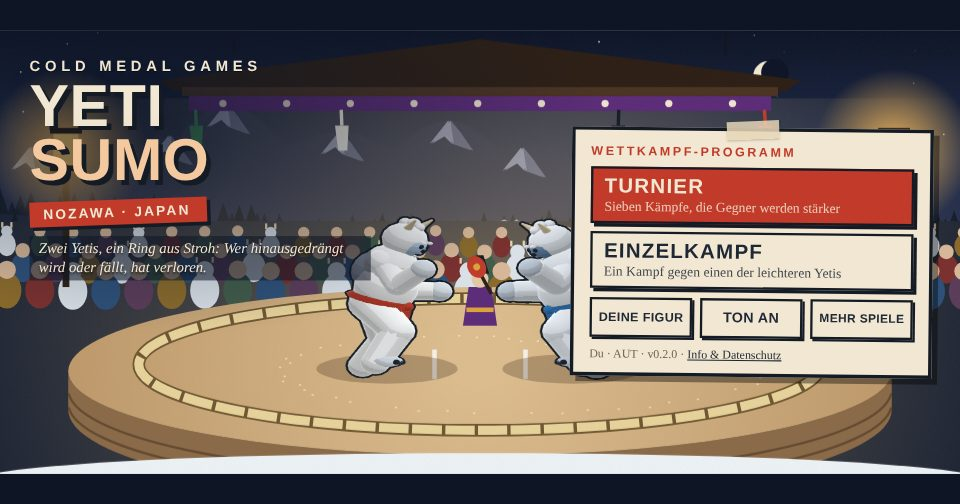
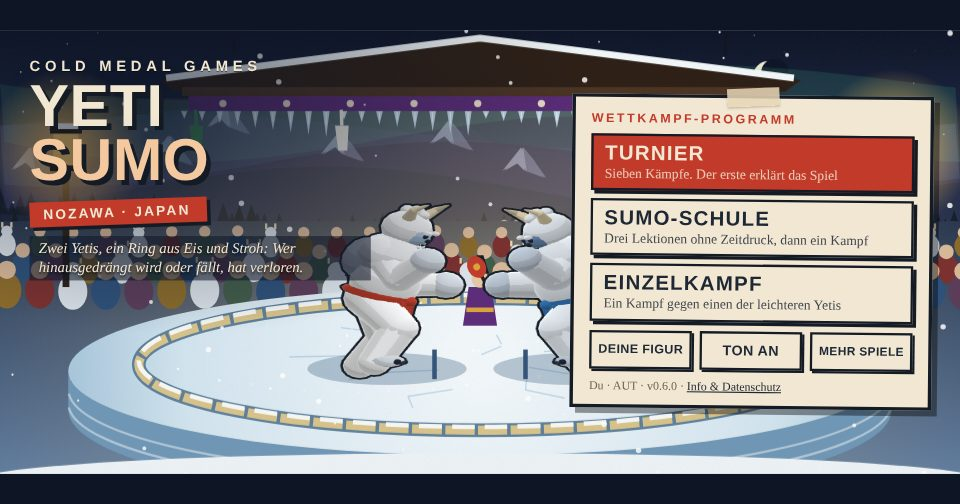
Yeti-Sumo 0.6.0
Claude-Session: https://claude.ai/code/session_014DHnXigyAZUFRqF2g2CL9Y

diff --git a/sumo/index.html b/sumo/index.html
@@ -2414,15 +2414,15 @@ tr.cut td { border-bottom: 2px dashed var(--red); }
         // Leib: Bauch und Brust aus zwei Ballen, Rückenfell, Gürtel mit Knoten und Fransen
         const mid = (t) => lerp(sk.hip, sk.nk, t);
         E(at(mid(0.36), fr, 2.6, up, 0, zs, 0), fr, up, zs, 12.4 * k, 13.2, 12.8 * k, fur);
-        E(at(mid(0.8), fr, 0.8, up, 0, zs, 0), fr, up, zs, 10.4 * k, 10.2, 12.2 * k, fur);
-        E(at(mid(0.62), fr, -7.5 * k, up, 0, zs, 0), fr, up, zs, 5.2, 8.5, 9.5 * k, fur2);
+        E(at(mid(0.8), fr, 1.2, up, 0, zs, 0), fr, up, zs, 11.8 * k, 10.8, 14.6 * k, fur);
+        E(at(mid(0.66), fr, -8.2 * k, up, 0, zs, 0), fr, up, zs, 6.4, 9.6, 11.5 * k, fur2);
         E(at(mid(0.1), fr, 1.8, up, 0, zs, 0), fr, up, zs, 12.9 * k, 3.3, 13.3 * k, belt);
         ball(at(mid(0.1), fr, 13.6 * k, up, 0, zs, 0), 2.5, belt);
         for (const sd of [-2, -1, 0, 1, 2]) cap(at(mid(0.07), fr, 13.2 * k, up, 0, zs, sd * 2.2), at(mid(0.07), fr, 13.6 * k, up, -7.5, zs, sd * 2.4), 0.75, belt);
         // Arme: runde Schulter, dicke Arme, Pranken
         for (const A2 of [sk.AF, sk.AB]) {
-          ball(A2[0], 6.6 * k, fur); limb(A2[0], A2[1], 5.8 * k, 5.0 * k, fur); limb(A2[1], A2[2], 5.0 * k, 4.5 * k, fur);
-          const d = norm(sub(A2[2], A2[1])); ball([A2[2][0] + d[0] * 2.6, A2[2][1] + d[1] * 2.6, A2[2][2] + d[2] * 2.6], 4.9, fur2);
+          ball(A2[0], 8.4 * k, fur); limb(A2[0], A2[1], 7.0 * k, 5.9 * k, fur); limb(A2[1], A2[2], 5.9 * k, 5.2 * k, fur);
+          const d = norm(sub(A2[2], A2[1])); ball([A2[2][0] + d[0] * 2.6, A2[2][1] + d[1] * 2.6, A2[2][2] + d[2] * 2.6], 6.0, fur2);
         }
         // Kopf: groß, Gesicht als hellblaue Maske, Augen, Nase, Maul mit zwei Zähnen, Hörner, Schopf
         const hu = norm(sub(sk.head, sk.nk)), hf = norm(cross(hu, zs)), hc = at(sk.head, hf, 0.5, hu, 1.4, zs, 0);
@@ -2430,9 +2430,9 @@ tr.cut td { border-bottom: 2px dashed var(--red); }
         E(at(hc, hf, 4.9, hu, -0.8, zs, 0), hf, hu, zs, 4.6, 5.6, 6.4, face);
         for (const sd of [-1, 1]) {
           E(at(hc, hf, 8.9, hu, 1.0, zs, sd * 2.7), hf, hu, zs, 0.9, o.auge === "zu" ? 0.35 : 1.15, 1.15, dark, true);
-          E(at(hc, hf, 8.6, hu, o.auge === "zu" ? 2.6 : 3.1, zs, sd * 2.9), hf, hu, zs, 1.0, 0.75, 2.3, fur, true);
-          limb(at(hc, hf, 0, hu, 6.2, zs, sd * 4.6), at(hc, hf, 1.6, hu, 12.2, zs, sd * 7.4), 1.8, 0.5, horn);
-          E(at(hc, hf, 8.6, hu, -4.4, zs, sd * 1.5), hf, hu, zs, 0.6, 1.0, 0.6, hex("#FFFFFF"), true);
+          E(at(hc, hf, 8.9, hu, o.auge === "zu" ? 2.5 : 2.7 - (sd * 0), zs, sd * 2.9), hf, hu, zs, 1.3, 1.0, 2.9, fur, true);
+          limb(at(hc, hf, 0, hu, 5.6, zs, sd * 5.0), at(hc, hf, 1.2, hu, 10.6, zs, sd * 9.2), 2.5, 1.5, horn); limb(at(hc, hf, 1.2, hu, 10.6, zs, sd * 9.2), at(hc, hf, 4.2, hu, 15.2, zs, sd * 8.2), 1.5, 0.3, horn);
+          E(at(hc, hf, 8.8, hu, -4.7, zs, sd * 1.7), hf, hu, zs, 0.7, 1.6, 0.75, hex("#FFFFFF"), true);
         }
         E(at(hc, hf, 9.6, hu, -1.0, zs, 0), hf, hu, zs, 1.2, 1.0, 1.5, dark, true);
         E(at(hc, hf, 8.7, hu, -3.6, zs, 0), hf, hu, zs, 0.8, o.mund === "auf" ? 1.9 : 0.55, 2.7, dark, true);
@@ -2652,7 +2652,7 @@ tr.cut td { border-bottom: 2px dashed var(--red); }
   function tu(s, f, art, opt) {
     if (s.phase !== "kampf" || f.akt || f.pause > 0.12) return false;
     if (f.griff) { if (art === "griff") art = "heben"; else if (art === "weich") art = "wurf"; } else if (art === "wurf" || art === "heben") art = "griff";
-    f.akt = { art, t: 0, fertig: false, lade: 0, haelt: art === "schub" && !!(opt && (opt.halten || opt.lade)), ladeZiel: opt && opt.lade ? opt.lade : null, timed: !!(opt && opt.timed) }; return true;
+    f.akt = { art, t: 0, fertig: false, lade: 0, haelt: art === "schub" && !!(opt && (opt.halten || opt.lade)), ladeZiel: opt && opt.lade ? opt.lade : null, timed: !!(opt && opt.timed), stur: !!(opt && opt.stur) }; return true;
   }
   function lass(s, f) { if (f.akt) f.akt.haelt = false; }
   // Volltreffer (wie die Zeitschläge in Rollenspielen): im Augenblick des Aufpralls tippen. Trifft das Fenster des eigenen Zugs, wirkt er stärker;
@@ -2666,16 +2666,16 @@ tr.cut td { border-bottom: 2px dashed var(--red); }
     if (kraftakt) { f.schwung = 0; melde(s, "kraftakt", f); } if (T) melde(s, "volltreffer", f);
     const weicht = oa && oa.art === "weich" && oa.t >= K.vor && oa.t < K.vor + K.aktiv;
     if (A === "schub") {
-      if (weicht && !f.griff) { sieg1(s, o); if (o.stemmt > 0) { f.bal -= 0.12; melde(s, "perfekt", o); } f.bal -= 0.5 + 0.45 * L; s.m += dir * (0.26 + 0.5 * L); melde(s, "leere", f, L > 0.4 ? "voll" : ""); if (f.bal <= 0.14) return ende(s, o, "Hatakikomi", "boden"); }
+      if (weicht && !f.griff) { sieg1(s, o); if (o.stemmt > 0) { f.bal -= 0.12; melde(s, "perfekt", o); } f.bal -= 0.5 + 0.45 * L + (f.akt.stur ? 0.25 : 0); s.m -= dir * (0.34 + 0.3 * L); melde(s, "leere", f, L > 0.4 ? "voll" : ""); if (f.bal <= 0.14) return ende(s, o, "Hatakikomi", "boden"); }
       else if (oa && oa.art === "griff" && !oa.fertig) { sieg1(s, f); o.akt = null; o.pause = 0.35; o.bal -= 0.12; s.m += dir * 0.78 * wucht * Math.sqrt(f.kraft / o.masse); melde(s, "gesprengt", f); }
-      else if (oa && oa.art === "schub" && Math.abs(oa.t - K.vor) < 0.1) { const z = f.kraft * f.masse * (0.6 + 0.4 * f.bal) * wucht - o.kraft * o.masse * (0.6 + 0.4 * o.bal) * (1 + 0.9 * clamp(oa.lade / LADEN, 0, 1)); s.m += dir * clamp(z, -1, 1) * 0.3; f.bal -= 0.04; o.bal -= 0.04; oa.fertig = true; melde(s, "prall", f); }
+      else if (oa && oa.art === "schub" && Math.abs(oa.t - K.vor) < 0.1) { const z = f.kraft * f.masse * (0.6 + 0.4 * f.bal) * wucht - o.kraft * o.masse * (0.6 + 0.4 * o.bal) * (1 + 0.9 * clamp(oa.lade / LADEN, 0, 1)); s.m += dir * clamp(z * 1.6, -1, 1) * 0.3 * (1 + s.tPh / 14); f.bal -= 0.08; o.bal -= 0.08; if (f.bal <= 0 || o.bal <= 0) return ende(s, z >= 0 ? f : o, "Oshitaoshi", "boden"); oa.fertig = true; melde(s, "prall", f); }
       else { const haelt = o.griff && !f.griff && fest(o) >= 0.5 && L < 0.45 && !kraftakt, gest = (o.stemmt > 0 || (o.stemmQuote && s.r() < o.stemmQuote)) ? 0.6 : 1; if (gest < 1) melde(s, "gestemmt", o);   // ein fester Griff hält einem einfachen Stoß stand, nur ein geladener sprengt ihn
-        s.m += dir * (f.griff ? 0.74 : 0.54) * wucht * gest * (haelt ? 0.5 : 1) * Math.sqrt(f.kraft / o.masse) * (1.5 - 0.5 * clamp(o.bal, 0, 1)) * (1 + s.tPh / 14) /* müde Beine */; o.bal -= (f.griff ? 0.05 : 0.1) * wucht * gest;
+        s.m += dir * (f.griff ? 0.74 : 0.44) * wucht * gest * (haelt ? 0.5 : 1) * Math.sqrt(f.kraft / o.masse) * (1.5 - 0.5 * clamp(o.bal, 0, 1)) * (1 + s.tPh / 14) /* müde Beine */; o.bal -= (f.griff ? 0.05 : 0.1) * wucht * gest;
         if (haelt) { o.griffT -= 1.1; melde(s, "haelt", f); } else if (o.griff && !f.griff) { o.griff = false; o.griffT = 0; melde(s, "geloest", f); } else melde(s, f.griff ? "draengen" : "schub", f, L > 0.4 ? "voll" : ""); }
       if (o.bal <= 0) return ende(s, f, f.griff ? "Yoritaoshi" : "Oshitaoshi", "boden");
     } else if (A === "griff") {
       if (weicht) { sieg1(s, f); f.griff = true; f.griffT = T ? 1.6 : 1.2; o.griff = false; o.bal -= 0.2; o.akt = null; o.pause = 0.3; melde(s, "gefangen", f); }
-      else { f.griff = true; f.griffT = T ? 1.0 : 0; melde(s, "griff", f); }
+      else { f.griff = true; f.griffT = T ? 1.0 : 0; if (!(oa && oa.art === "griff")) { s.m += dir * 0.22 * Math.sqrt(f.kraft / o.masse); o.bal -= 0.08; } melde(s, "griff", f); }
     } else if (A === "wurf") {
       const amRand = zumRand(s, o) < 0.55, ichAmRand = zumRand(s, f) < 0.55, imSchub = oa && oa.art === "schub" && !oa.fertig && oa.t > K.vor - 0.16;
       if (o.bal < (T || kraftakt ? 0.7 : 0.55) || amRand || imSchub) { o.bal = 0; return ende(s, f, ichAmRand ? "Utchari" : imSchub ? "Sukuinage" : "Uwatenage", "boden"); }
@@ -2699,7 +2699,7 @@ tr.cut td { border-bottom: 2px dashed var(--red); }
     if (s.phase === "bereit") { if (s.tPh >= s.signal && ((s.A.start != null && s.B.start != null) || s.tPh > s.signal + 0.7)) aufprall(s); return s.ev; }
     if (s.phase !== "kampf") return s.ev;
     for (const f of [s.A, s.B]) {
-      f.bal = Math.min(1, f.bal + 0.07 * dt); if (f.pause > 0) f.pause -= dt; if (f.stemmt > 0) f.stemmt -= dt; if (f.griff) f.griffT = Math.min(GRIFF_FEST, f.griffT + dt); else f.griffT = 0;
+      f.bal = Math.min(1, f.bal + 0.04 * dt); if (f.pause > 0) f.pause -= dt; if (f.stemmt > 0) f.stemmt -= dt; if (f.griff) f.griffT = Math.min(GRIFF_FEST, f.griffT + dt); else f.griffT = 0;
       const a = f.akt; if (!a) continue; const K = AKT[a.art];
       if (a.haelt && !a.fertig && a.t >= K.vor - 0.03) { a.lade += dt; if (a.lade >= LADEN || (a.ladeZiel != null && a.lade >= a.ladeZiel)) a.haelt = false; } else a.t += dt;
       if (!a.fertig && a.t >= K.vor && a.art !== "weich") { a.fertig = true; wirke(s, f); if (s.phase !== "kampf") return s.ev; }
@@ -2728,7 +2728,7 @@ tr.cut td { border-bottom: 2px dashed var(--red); }
   // Für den Kampf in Runden (seit 0.3): Der Rechner legt seinen Zug vor dem Gong fest (waehle) und liest mit Können manchmal den Zug des anderen (kontra).
   // verlauf: die letzten Züge des anderen (jüngster zuerst). Wer zweimal dasselbe macht, wird durchschaut.
   function waehle(s, f, verlauf) {
-    if (verlauf && verlauf.length >= 2 && verlauf[0] === verlauf[1] && s.r() < 0.45 + 0.4 * f.st) return [kontra(s, f, verlauf[0]), null, true];
+    if (verlauf && verlauf.length >= 2 && verlauf[0] === verlauf[1] && s.r() < 0.4 + 0.58 * f.st) return [kontra(s, f, verlauf[0]), null, true];
     const o = andere(s, f), r = s.r, w = Object.assign({ wurf: 0, heben: 0 }, TYPEN[f.typ] || TYPEN.schieber);
     if (f.griff) { w.schub = 5; w.griff = 0; w.wurf = o.bal < 0.55 || zumRand(s, o) < 0.55 ? 5 : 0.6; w.weich = 0; w.heben = fest(f) >= 0.55 && o.bal < 0.8 ? 2.4 : 0; }
     if (o.griff) { w.schub *= 2.2; w.weich *= 0.15; }
@@ -2751,17 +2751,17 @@ tr.cut td { border-bottom: 2px dashed var(--red); }
 // Ablauf wie im Sumo: Einzug, Stampfen (Shiko), Salz, Hocke, Fäuste auf den Boden, Aufprall (Tachiai), Kampf, Siegtechnik (Kimarite).
 (function () {
   "use strict";
-  const VERSION = "0.5.0";
+  const VERSION = "0.6.0";
   const P = window.SUPhys, F = window.CMFigur, F3 = window.Figur3D;
-  const CX = 422, CY = 294, RX = 300, RY = 58, PXM = RX / P.RING, SC = 1.95;
+  const CX = 422, CY = 294, RX = 300, RY = 58, PXM = RX / P.RING, SC = 2.12;
   const YETIS = [
     { name: "Firn", typ: "schieber", st: 0.18, kraft: 0.92, masse: 0.92, fur: "#F4F6F8", fur2: "#D6DEE6", face: "#7C9CC0", belt: "#3F6B55", dick: 0.94 },
     { name: "Wächte", typ: "trickser", st: 0.3, kraft: 0.94, masse: 0.9, fur: "#EDE7DA", fur2: "#CFC6B2", face: "#8A7A66", belt: "#DDA43B", dick: 0.9 },
-    { name: "Lawine", typ: "schieber", st: 0.42, kraft: 1.06, masse: 1.1, fur: "#E3EAF2", fur2: "#BFCCDB", face: "#5F7FA6", belt: "#2C6FB3", dick: 1.12 },
-    { name: "Gletscher", typ: "greifer", st: 0.54, kraft: 1.04, masse: 1.12, fur: "#D9EEF2", fur2: "#A9D0D8", face: "#3F7F8C", belt: "#1F3A7A", dick: 1.1 },
-    { name: "Nordwand", typ: "greifer", st: 0.66, kraft: 1.1, masse: 1.06, fur: "#CFCFD6", fur2: "#A3A3AF", face: "#4A4F63", belt: "#141B25", dick: 1.04 },
+    { name: "Lawine", typ: "schieber", st: 0.42, kraft: 1.04, masse: 1.06, fur: "#E3EAF2", fur2: "#BFCCDB", face: "#5F7FA6", belt: "#2C6FB3", dick: 1.12 },
+    { name: "Gletscher", typ: "greifer", st: 0.54, kraft: 1.04, masse: 1.08, fur: "#D9EEF2", fur2: "#A9D0D8", face: "#3F7F8C", belt: "#1F3A7A", dick: 1.1 },
+    { name: "Nordwand", typ: "greifer", st: 0.66, kraft: 1.08, masse: 1.06, fur: "#CFCFD6", fur2: "#A3A3AF", face: "#4A4F63", belt: "#141B25", dick: 1.04 },
     { name: "Eisbruch", typ: "trickser", st: 0.78, kraft: 1.04, masse: 1.0, fur: "#F2E9F0", fur2: "#D3C0CF", face: "#7A5A80", belt: "#7A2E8C", dick: 0.98 },
-    { name: "Schneekönig", typ: "schieber", st: 0.9, kraft: 1.14, masse: 1.18, fur: "#FFFFFF", fur2: "#E0E6EE", face: "#35547A", belt: "#B8860B", dick: 1.18, horn: "#E0B040" },
+    { name: "Schneekönig", typ: "schieber", st: 0.9, kraft: 1.1, masse: 1.1, fur: "#FFFFFF", fur2: "#E0E6EE", face: "#35547A", belt: "#B8860B", dick: 1.18, horn: "#E0B040" },
   ];
   const ICH = { fur: "#F6F8FA", fur2: "#D9E1EA", face: "#A9C1DC", belt: "#C23B2A", dick: 1 };
   // ---- Posen (Grad, + = nach vorn; sL/fL [Hüfte, Knie], aF/aB [Schulter, Ellbogen], sA/fA Beine seitlich, ao Arme seitlich)
@@ -2797,7 +2797,7 @@ tr.cut td { border-bottom: 2px dashed var(--red); }
 
   // ---- ein Yeti im Bild: 3D-Figur als Bild, gespiegelt für den rechten Ringer; ohne WebGL die flache Figur
   function yeti(c, x, y, o) {
-    const S3 = sprite(); c.save(); c.translate(x, y); if (o.dir < 0) c.scale(-1, 1); if (o.kipp) c.rotate(o.kipp); c.scale(1.2, 0.9);   // gedrungen: breiter und kürzer als ein Mensch
+    const S3 = sprite(); c.save(); c.translate(x, y); if (o.dir < 0) c.scale(-1, 1); if (o.kipp) c.rotate(o.kipp); c.scale(1.24, 0.9);   // gedrungen: breiter und kürzer als ein Mensch
     if (S3) { const img = S3.render(Object.assign({ outfit: "yeti", pose: o.pose, turn: o.turn == null ? 0.42 : o.turn, lift: o.lift || 0 }, o.art)), B = F3.SPR, sz = (B.x1 - B.x0) * SC; c.drawImage(img, B.x0 * SC, -B.y1 * SC, sz, sz); }
     else F.draw(c, { x: 0, y: 0, s: SC * 1.1, pose: o.pose, look: { suit: o.art.belt, skin: 0 }, kit: "plain", dir: 1 });
     c.restore();
@@ -2805,28 +2805,37 @@ tr.cut td { border-bottom: 2px dashed var(--red); }
   // ---- die Arena: Bergdorf bei Nacht, Laternen, Zuschauer, hängendes Dach mit vier Quasten, Lehmpodest mit Strohballenring
   function arena(c, t, st) {
     kul = kul || R.kulisse("nozawa", 168, "nacht"); kul.zeichne(c, 0, t);
-    c.fillStyle = "#1A2233"; c.fillRect(0, 168, R.W, R.H - 168);
+    // Nordlicht über den Bergen, verschneite Ebene
+    for (let k = 0; k < 3; k++) { c.beginPath(); for (let x2 = 0; x2 <= R.W; x2 += 24) { const y2 = 46 + k * 22 + Math.sin(x2 / 130 + t * 0.25 + k * 1.7) * 16; x2 ? c.lineTo(x2, y2) : c.moveTo(x2, y2); } for (let x2 = R.W; x2 >= 0; x2 -= 24) c.lineTo(x2, 96 + k * 22 + Math.sin(x2 / 110 + t * 0.2 + k) * 20); c.closePath(); c.fillStyle = ["rgba(90,230,170,0.13)", "rgba(90,190,255,0.11)", "rgba(170,120,255,0.08)"][k]; c.fill(); }
+    const eb = c.createLinearGradient(0, 168, 0, R.H); eb.addColorStop(0, "#22324D"); eb.addColorStop(1, "#5E7CA0"); c.fillStyle = eb; c.fillRect(0, 168, R.W, R.H - 168);
     const gl = c.createRadialGradient(CX, 250, 40, CX, 250, 460); gl.addColorStop(0, "rgba(255,214,150,0.34)"); gl.addColorStop(1, "rgba(255,214,150,0)"); c.fillStyle = gl; c.fillRect(0, 60, R.W, R.H);
     // Zuschauer in drei Reihen, vorn größer; sie wippen, beim Aufprall und beim Sieg springen sie
     for (let reihe = 0; reihe < 3; reihe++) for (let i = 0; i < 30; i++) { const x = 6 + i * 29 + (reihe % 2) * 14, y = 190 + reihe * 20, g = 10 + reihe * 3, h = Math.sin(i * 7.3 + reihe * 2.1), bob = Math.max(0, Math.sin(t * (2 + (i % 3)) + i)) * (1.5 + (st.jubel || 0) * 9);
       const yeti2 = (i + reihe) % 4 === 0; c.fillStyle = yeti2 ? "#DCE4EC" : ["#7A2E2E", "#2C4F7A", "#8A6A2A", "#3F5B4A", "#5A3B5A"][(i * 3 + reihe) % 5]; c.beginPath(); c.ellipse(x, y - bob, g * 0.8, g, 0, 0, R.TAU); c.fill();
       c.fillStyle = yeti2 ? "#DCE4EC" : "#D9B99A"; c.beginPath(); c.arc(x, y - g - 2 - bob, g * 0.5, 0, R.TAU); c.fill(); if (yeti2) { c.fillStyle = "#E8D8B4"; c.fillRect(x - g * 0.5, y - g * 1.6 - 4 - bob, 2, 5); c.fillRect(x + g * 0.5 - 2, y - g * 1.6 - 4 - bob, 2, 5); } void h; }
     // Laternen links und rechts
-    for (const x of [58, 786]) { c.fillStyle = "#2A1F17"; c.fillRect(x - 3, 96, 6, 130); const g2 = c.createRadialGradient(x, 104, 2, x, 104, 70); g2.addColorStop(0, "rgba(255,190,90,0.9)"); g2.addColorStop(1, "rgba(255,190,90,0)"); c.fillStyle = g2; c.fillRect(x - 70, 34, 140, 140); c.fillStyle = "#F2C46A"; c.fillRect(x - 11, 90, 22, 30); c.fillStyle = "#2A1F17"; c.fillRect(x - 14, 86, 28, 5); c.fillRect(x - 14, 119, 28, 5); }
+    for (const x of [58, 786]) { c.fillStyle = "#2A1F17"; c.fillRect(x - 3, 96, 6, 130); const g2 = c.createRadialGradient(x, 104, 2, x, 104, 70); g2.addColorStop(0, "rgba(255,190,90,0.9)"); g2.addColorStop(1, "rgba(255,190,90,0)"); c.fillStyle = g2; c.fillRect(x - 70, 34, 140, 140); c.fillStyle = "#F2C46A"; c.fillRect(x - 11, 90, 22, 30); c.fillStyle = "#2A1F17"; c.fillRect(x - 14, 86, 28, 5); c.fillRect(x - 14, 119, 28, 5); c.fillStyle = "#F4F9FC"; c.fillRect(x - 15, 82, 30, 5); }
     // hängendes Dach (wie über jedem Dohyo): Giebel, violetter Vorhang, vier Quasten in Grün, Rot, Weiß, Schwarz
     c.strokeStyle = "#0E131C"; c.lineWidth = 2; for (const x of [206, 638]) { c.beginPath(); c.moveTo(x, 0); c.lineTo(x, 22); c.stroke(); }
     c.fillStyle = "#2B1D14"; c.beginPath(); c.moveTo(140, 44); c.lineTo(CX, 8); c.lineTo(704, 44); c.lineTo(690, 54); c.lineTo(154, 54); c.closePath(); c.fill(); c.fillStyle = "#4A3222"; c.fillRect(160, 50, 524, 8);
+    // Schnee auf dem Dach, Eiszapfen an der Traufe
+    c.strokeStyle = "#F4F9FC"; c.lineWidth = 6; c.lineJoin = "round"; c.beginPath(); c.moveTo(146, 42); c.lineTo(CX, 7); c.lineTo(698, 42); c.stroke();
+    for (let i = 0; i < 34; i++) { const zx = 162 + i * 15.6, zl = 7 + ((i * 53) % 17); c.fillStyle = "rgba(205,232,248,0.92)"; c.beginPath(); c.moveTo(zx - 3, 71); c.lineTo(zx + 3, 71); c.lineTo(zx, 71 + zl); c.closePath(); c.fill(); c.fillStyle = "rgba(255,255,255,0.8)"; c.fillRect(zx - 0.5, 72, 1, zl * 0.5); }
     c.fillStyle = "#5B2A7A"; c.fillRect(166, 58, 512, 13); c.fillStyle = "#F1E7D2"; for (let i = 0; i < 9; i++) { c.beginPath(); c.arc(196 + i * 56, 64.5, 3.2, 0, R.TAU); c.fill(); }
     [[172, "#3F8F5A"], [672, "#C23B2A"], [300, "#F4F1E8"], [544, "#141B25"]].forEach(([x, col], i) => { const sw = Math.sin(t * 1.3 + i) * 2.5; c.strokeStyle = col; c.lineWidth = 3; c.beginPath(); c.moveTo(x, 70); c.lineTo(x + sw * 0.4, 84); c.stroke(); c.fillStyle = col; c.beginPath(); c.moveTo(x - 6 + sw * 0.4, 84); c.lineTo(x + 6 + sw * 0.4, 84); c.lineTo(x + 4 + sw, 106); c.lineTo(x - 4 + sw, 106); c.closePath(); c.fill(); });
     // Podest aus Lehm: Seitenwand mit Strohbändern, Oberfläche, Schnee am Fuß
-    c.fillStyle = "#8A6A48"; c.beginPath(); c.ellipse(CX, CY + 40, RX + 62, RY + 22, 0, 0, Math.PI); c.lineTo(CX - RX - 62, CY + 6); c.ellipse(CX, CY + 6, RX + 62, RY + 16, 0, Math.PI, 0, true); c.closePath(); c.fill();
-    c.strokeStyle = "rgba(60,40,24,0.5)"; c.lineWidth = 2; for (const dy of [22, 34]) { c.beginPath(); c.ellipse(CX, CY + dy, RX + 62, RY + 18, 0, 0.05, Math.PI - 0.05); c.stroke(); }
-    const lg = c.createRadialGradient(CX, CY - 10, 30, CX, CY, RX + 60); lg.addColorStop(0, "#DDBE90"); lg.addColorStop(1, "#BF9A6C"); c.fillStyle = lg; c.beginPath(); c.ellipse(CX, CY + 6, RX + 62, RY + 16, 0, 0, R.TAU); c.fill();
-    c.fillStyle = "rgba(255,255,255,0.5)"; for (let i = 0; i < 46; i++) { const a = i * 2.399, rr = 0.3 + ((i * 37) % 60) / 100; c.fillRect(CX + Math.cos(a) * RX * rr, CY + Math.sin(a) * RY * rr, 2, 1.4); }
+    c.fillStyle = "#6F97B8"; c.beginPath(); c.ellipse(CX, CY + 40, RX + 62, RY + 22, 0, 0, Math.PI); c.lineTo(CX - RX - 62, CY + 6); c.ellipse(CX, CY + 6, RX + 62, RY + 16, 0, Math.PI, 0, true); c.closePath(); c.fill();
+    c.strokeStyle = "rgba(255,255,255,0.45)"; c.lineWidth = 2; for (const dy of [22, 34]) { c.beginPath(); c.ellipse(CX, CY + dy, RX + 62, RY + 18, 0, 0.05, Math.PI - 0.05); c.stroke(); }
+    const lg = c.createRadialGradient(CX, CY - 10, 30, CX, CY, RX + 60); lg.addColorStop(0, "#F3F9FD"); lg.addColorStop(0.7, "#D3E6F2"); lg.addColorStop(1, "#A9C8DE"); c.fillStyle = lg; c.beginPath(); c.ellipse(CX, CY + 6, RX + 62, RY + 16, 0, 0, R.TAU); c.fill();
+    // Eis: feine Risse und Glitzern
+    c.strokeStyle = "rgba(110,160,200,0.35)"; c.lineWidth = 1.2; for (let i = 0; i < 9; i++) { const a = i * 0.74 + 0.3, r1 = 0.15 + (i % 3) * 0.12, r2 = r1 + 0.3; c.beginPath(); c.moveTo(CX + Math.cos(a) * RX * r1, CY + Math.sin(a) * RY * r1); c.lineTo(CX + Math.cos(a + 0.2) * RX * (r1 + 0.14), CY + Math.sin(a + 0.2) * RY * (r1 + 0.14)); c.lineTo(CX + Math.cos(a + 0.08) * RX * r2, CY + Math.sin(a + 0.08) * RY * r2); c.stroke(); }
+    for (let i = 0; i < 46; i++) { const a = i * 2.399, rr = 0.2 + ((i * 37) % 70) / 100; c.fillStyle = `rgba(255,255,255,${0.35 + 0.6 * Math.max(0, Math.sin(t * 3 + i * 1.9))})`; c.fillRect(CX + Math.cos(a) * RX * rr, CY + Math.sin(a) * RY * rr, 2, 2); }
     // Strohballenring (Tawara) und die zwei Startlinien (Shikiri-sen)
-    c.strokeStyle = "#6E5632"; c.lineWidth = 11; c.beginPath(); c.ellipse(CX, CY, RX, RY, 0, 0, R.TAU); c.stroke(); c.strokeStyle = "#E9D49C"; c.lineWidth = 8; c.setLineDash([26, 3]); c.beginPath(); c.ellipse(CX, CY, RX, RY, 0, 0, R.TAU); c.stroke(); c.setLineDash([]);
-    c.strokeStyle = "#F7F4EC"; c.lineWidth = 4; for (const sd of [-1, 1]) { c.beginPath(); c.moveTo(CX + sd * 40, CY - 13); c.lineTo(CX + sd * 40, CY + 13); c.stroke(); }
+    c.strokeStyle = "#5C7F9C"; c.lineWidth = 12; c.beginPath(); c.ellipse(CX, CY, RX, RY, 0, 0, R.TAU); c.stroke(); c.strokeStyle = "#D9C48C"; c.lineWidth = 8; c.setLineDash([26, 3]); c.beginPath(); c.ellipse(CX, CY, RX, RY, 0, 0, R.TAU); c.stroke(); c.strokeStyle = "rgba(250,253,255,0.95)"; c.lineWidth = 4; c.setLineDash([20, 9]);   /* Reif und Schnee auf den Strohballen */ c.save(); c.translate(0, -3); c.beginPath(); c.ellipse(CX, CY, RX, RY, 0, 0, R.TAU); c.stroke(); c.restore(); c.setLineDash([]);
+    c.strokeStyle = "#35547A"; c.lineWidth = 4; for (const sd of [-1, 1]) { c.beginPath(); c.moveTo(CX + sd * 40, CY - 13); c.lineTo(CX + sd * 40, CY + 13); c.stroke(); }
     c.fillStyle = "#EEF4F8"; c.beginPath(); c.ellipse(CX, R.H + 8, RX + 150, 26, 0, 0, R.TAU); c.fill();
+    // es schneit
+    c.fillStyle = "rgba(255,255,255,0.85)"; for (let i = 0; i < 70; i++) { const fx = ((i * 97.3 + Math.sin(t * 0.7 + i) * 18 + t * (6 + (i % 5) * 3)) % (R.W + 20)) - 10, fy = ((i * 61.7 + t * (22 + (i % 7) * 7)) % (R.H + 20)) - 10, fr = 1 + (i % 3) * 0.7; c.beginPath(); c.arc(fx, fy, fr, 0, R.TAU); c.fill(); }
   }
   // der Schiedsrichter (Gyoji) hinten in der Mitte: Gewand, Hut, Fächer. Fächer oben = Achtung, gesenkt = Kampf frei, zeigt am Ende auf den Sieger
   function gyoji(c, t, st) {
@@ -2842,7 +2851,7 @@ tr.cut td { border-bottom: 2px dashed var(--red); }
     const seed = (Date.now() ^ (Math.random() * 1e9)) >>> 0, a = P.ringer({ st: 0.9, name: R.myName() }), b = P.ringer({ st: gegner.st, typ: gegner.typ, kraft: gegner.kraft, masse: gegner.masse, name: gegner.name, stemmQuote: 0.1 + 0.4 * gegner.st }), s = P.kampf(a, b, seed); s.ohneSchwung = stufe < 3;
     // Anzeige je Ringer: aktuelle Pose (gleitet zur Zielpose), Blickdrehung, Zusatzbewegung
     const V = [{ f: a, art: ICH, dir: 1, pose: PO.steh, x: -1.9, turn: 0.42, kipp: 0, fall: 0 }, { f: b, art: gegner, dir: -1, pose: PO.steh, x: 1.9, turn: 0.42, kipp: 0, fall: 0 }];
-    const NAMEN = { schub: "Schieben", griff: "Greifen", weich: "Ausweichen", wurf: "Werfen", heben: "Ausheben" }, runde = () => ({ ph: "wahl", t: 0, wahl: null, geg: LEHRE[lektion] ? [LEHRE[lektion][0], null] : null, lehre: LEHRE[lektion] ? LEHRE[lektion][1] : null, dauer: LEHRE[lektion] ? 1e9 : 1.9 - 0.7 * gegner.st, ev: [], text: null, zug: null, getippt: false, zeig: 0.2 + 0.45 * gegner.st, verdeckt: Math.random() < Math.max(0, (gegner.st - 0.5) * 1.4) });
+    const NAMEN = { schub: "Schieben", griff: "Greifen", weich: "Ausweichen", wurf: "Werfen", heben: "Ausheben" }, runde = () => ({ ph: "wahl", t: 0, wahl: null, geg: LEHRE[lektion] ? [LEHRE[lektion][0], null] : null, lehre: LEHRE[lektion] ? LEHRE[lektion][1] : null, dauer: LEHRE[lektion] ? 1e9 : 1.9 - 0.7 * gegner.st, ev: [], text: null, zug: null, getippt: false, zeig: 0.2 + 0.45 * gegner.st, verdeckt: Math.random() < Math.max(0, (gegner.st - 0.5) * 1.0) });
     const st = { rd: runde(), verlauf: [], ph: "einzug", t: 0, faecher: { w: -0.5, seite: 1 }, jubel: 0, beben: 0, zeit: 1, teile: [], banner: null, haelt: false, botAn: false, acc: [0, 0], sperre: 0, tEnde: 0, hinweis: null };
     const staub = (x, n, kraft, farbe) => { for (let i = 0; i < n; i++) st.teile.push({ x: CX + x * PXM + (Math.random() - 0.5) * 30, y: CY + (Math.random() - 0.5) * 10, vx: (Math.random() - 0.5) * 120 * kraft, vy: -Math.random() * 90 * kraft, g: 240, l: 0.5 + Math.random() * 0.5, r: 2 + Math.random() * 3, c: farbe || "rgba(255,255,255,0.85)" }); };
     function eingabe(art) { if (st.ph !== "kampf" || st.rd.ph !== "wahl") return; if (st.rd.wahl !== art) R.ton.klick(); st.rd.wahl = art; }
@@ -2850,8 +2859,8 @@ tr.cut td { border-bottom: 2px dashed var(--red); }
     // Warum ging die Runde so aus? Ein Satz aus dem, was in der Runde geschah. gut: für den Spieler gut (grün), schlecht (rot) oder neutral.
     function erklaere(rd) {
       const hat = (art, wer) => rd.ev.find((e) => e.art === art && (!wer || e.wer === wer)), G = gegner.name, f = (t, gut) => ({ t, gut });
-      if (hat("leere", "B")) return f(`Ausweichen schlägt Schieben: ${G} stößt ins Leere und verliert Gleichgewicht.`, 1);
-      if (hat("leere", "A")) return f(`Ausweichen schlägt Schieben: Dein Stoß geht ins Leere, du verlierst Gleichgewicht.`, -1);
+      if (hat("leere", "B")) return f(`Ausweichen schlägt Schieben: ${G} stößt ins Leere, verliert Gleichgewicht und Raum.`, 1);
+      if (hat("leere", "A")) return f(rd.stur ? `Dreimal derselbe Zug: ${G} hat dich durchschaut. Dein Stoß geht ins Leere, du stolperst schwer.` : `Ausweichen schlägt Schieben: Dein Stoß geht ins Leere, du verlierst Gleichgewicht und Raum.`, -1);
       if (hat("gesprengt", "A")) return f(`Schieben schlägt Greifen: Dein Stoß sprengt seinen Griff und drängt ${G} zurück.`, 1);
       if (hat("gesprengt", "B")) return f(`Schieben schlägt Greifen: ${G} sprengt deinen Griff und drängt dich zurück.`, -1);
       if (hat("gefangen", "A")) return f(`Greifen schlägt Ausweichen: Du hast ${G} am Gürtel.`, 1);
@@ -2866,7 +2875,7 @@ tr.cut td { border-bottom: 2px dashed var(--red); }
       if (gA && gB) return f("Beide greifen zu: Jeder hat den anderen am Gürtel.", 0);
       if (sA && sB) return f("Beide schieben nacheinander: Keiner gewinnt viel Raum.", 0);
       if (sA) return f(`Du drängst ${G} Richtung Rand.${gB ? " Er hat dabei deinen Gürtel gefasst." : ""}`, 1); if (sB) return f(`${G} drängt dich Richtung Rand.${gA ? " Du hast dabei seinen Gürtel gefasst." : ""}`, -1);
-      if (gA) return f(`Du hast ${G} am Gürtel: Jetzt kannst du drängen, werfen oder ausheben.`, 1); if (gB) return f(`${G} hat dich am Gürtel. Ein Stoß kann den Griff lösen.`, -1);
+      if (gA) return f(`Du reißt ${G} am Gürtel ein Stück mit: Jetzt kannst du drängen, werfen oder ausheben.`, 1); if (gB) return f(`${G} hat dich am Gürtel. Ein Stoß kann den Griff lösen.`, -1);
       return f(rd.zug && !rd.zug[0] ? "Du hast keinen Zug gewählt." : "Nichts passiert: Beide Züge gehen ins Leere.", 0);
     }
     function tipp() { const rd = st.rd; if (stufe < 2 || st.ph !== "kampf" || rd.ph !== "zug" || rd.getippt) return; rd.getippt = true; if (P.tippe(s, a) === "treffer") R.ton.gut(); else R.ton.tick(); }
@@ -2901,7 +2910,7 @@ tr.cut td { border-bottom: 2px dashed var(--red); }
           const rd = st.rd; rd.t += dt;
           if (rd.ph === "wahl") { if (rd.lehre && rd.wahl && rd.dauer > 1e8) rd.dauer = rd.t + 0.6; if (!rd.geg) rd.geg = P.waehle(s, b, st.verlauf); if (st.botAn && !rd.wahl && rd.t > 0.3) rd.wahl = P.waehle(s, a)[0];
             if (rd.t >= rd.dauer) { const g2 = rd.geg;   // der angezeigte Zug gilt: Die Anzeige über dem Gegner lügt nie
-              a.pause = b.pause = 0; if (rd.wahl) P.tu(s, a, rd.wahl, rd.wahl === "schub" && st.haelt && !st.botAn && stufe >= 2 ? { halten: true } : st.botAn && stufe >= 2 && s.r() < 0.5 ? { timed: true } : null); if (rd.lehre) lektion++; P.tu(s, b, g2[0], stufe >= 2 ? g2[1] || (s.r() < 0.1 + 0.5 * b.st ? { timed: true } : null) : null);
+              a.pause = b.pause = 0; rd.stur = !!rd.wahl && st.verlauf[0] === rd.wahl && st.verlauf[1] === rd.wahl; if (rd.wahl) P.tu(s, a, rd.wahl, rd.stur ? { stur: true } : rd.wahl === "schub" && st.haelt && !st.botAn && stufe >= 2 ? { halten: true } : st.botAn && stufe >= 2 && s.r() < 0.5 ? { timed: true } : null); if (rd.lehre) lektion++; P.tu(s, b, g2[0], stufe >= 2 ? g2[1] || (s.r() < 0.1 + 0.5 * b.st ? { timed: true } : null) : null);
               st.verlauf.unshift(rd.wahl || "nichts"); st.verlauf.length = Math.min(3, st.verlauf.length);
               rd.zug = [a.akt ? a.akt.art : null, b.akt ? b.akt.art : null]; rd.ph = "zug"; rd.t = 0; R.ton.klack(); R.tippWeg(); } }
           else if (rd.ph === "zug" && ((rd.t > 0.6 && !a.akt && !b.akt) || rd.t > 3)) { rd.ph = "warum"; rd.t = 0; rd.text = erklaere(rd); }
@@ -2950,6 +2959,7 @@ tr.cut td { border-bottom: 2px dashed var(--red); }
           }
           v.pose = misch(v.pose, ziel, Math.min(1, dt * tempo)); v.turn += (turn - v.turn) * Math.min(1, dt * 10); v.mund = mund;
         });
+        if (st.ph !== "einzug" && Math.floor(st.t * 1.3) !== Math.floor((st.t - dt) * 1.3)) for (const v of V) if (!(st.ph === "ende" && v.fall > 0)) for (let k = 0; k < 3; k++) st.teile.push({ x: CX + v.x * PXM + v.dir * (58 + k * 7), y: CY - 150 + (v.pose.lean || 0) * 0.9, vx: v.dir * (16 + k * 8), vy: -10 - k * 4, g: -6, l: 0.9 + k * 0.15, r: 5 + k * 2.5, c: "rgba(235,245,255,0.28)" });   // Atem
         for (const p of st.teile) { p.l -= dt0; p.x += p.vx * dt0; p.y += p.vy * dt0; p.vy += p.g * dt0; } st.teile = st.teile.filter((p) => p.l > 0);
         // Hinweis über dem Gegner, solange er ausholt (bei den ersten, schwächeren Gegnern)
         { const rd = st.rd, g2 = rd.geg && rd.geg[0]; st.hinweis = st.ph === "kampf" && rd.ph === "wahl" && g2 && (rd.lehre || rd.t > rd.dauer * rd.zeig) ? (rd.verdeckt && !rd.lehre ? "verdeckt" : b.griff ? (g2 === "griff" ? "heben" : g2 === "weich" ? "wurf" : g2) : g2 === "schub" && rd.geg[1] ? "lade" : g2) : null; }
@@ -2958,7 +2968,7 @@ tr.cut td { border-bottom: 2px dashed var(--red); }
       draw(c, t) {
         c.save(); if (st.beben > 0) c.translate((Math.random() - 0.5) * 9 * st.beben, (Math.random() - 0.5) * 7 * st.beben);
         arena(c, t, st); gyoji(c, t, st);
-        for (const v of V) { const x = CX + v.x * PXM, ich = v === V[0], col = ich ? ICH.belt : gegner.belt, name = ich ? "DU" : gegner.name.toUpperCase(); c.fillStyle = "rgba(60,40,24,0.28)"; c.beginPath(); c.ellipse(x, CY + 4, 62, 13, 0, 0, R.TAU); c.fill();
+        for (const v of V) { const x = CX + v.x * PXM, ich = v === V[0], col = ich ? ICH.belt : gegner.belt, name = ich ? "DU" : gegner.name.toUpperCase(); c.fillStyle = "rgba(40,80,120,0.3)"; c.beginPath(); c.ellipse(x, CY + 4, 70, 14, 0, 0, R.TAU); c.fill();
           // wer ist wer: farbiger Ring am Boden in der Gürtelfarbe und ein Schild darunter; der eigene Yeti zusätzlich mit Pfeil
           if (st.ph !== "ende" || v.fall < 0.3) { c.strokeStyle = col; c.lineWidth = ich ? 4 : 2.5; c.beginPath(); c.ellipse(x, CY + 4, 66, 15, 0, 0, R.TAU); c.stroke(); const w = Math.max(40, name.length * 8.4 + 18); if (st.ph !== "kampf") { c.fillStyle = col; c.fillRect(x - w / 2, CY + 24, w, 18); c.strokeStyle = "#141B25"; c.lineWidth = 2; c.strokeRect(x - w / 2, CY + 24, w, 18); R.text(c, name, x, CY + 33.5, 11, "#F7F4EC"); }
             if (ich && (st.ph === "einzug" || st.ph === "ritual" || st.ph === "hocke")) { const y = CY - 218 + Math.sin(t * 5) * 4; c.fillStyle = col; c.beginPath(); c.moveTo(x, y + 16); c.lineTo(x - 11, y); c.lineTo(x + 11, y); c.closePath(); c.fill(); c.strokeStyle = "#141B25"; c.stroke(); } } }
@@ -2978,7 +2988,7 @@ tr.cut td { border-bottom: 2px dashed var(--red); }
           // drei Züge zum Antippen (oder wischen); der gewählte leuchtet, der Balken zeigt die Wahlzeit
           arts.forEach((art, k) => { const bx = CX - 214 + k * 144, gew = rd.wahl === art && wahl, aus = !wahl; c.fillStyle = gew ? "#DDA43B" : aus ? "rgba(20,27,37,0.45)" : "#F1E7D2"; c.fillRect(bx, R.H - 44, 140, 36); c.strokeStyle = "#141B25"; c.lineWidth = gew ? 4 : 2; c.strokeRect(bx, R.H - 44, 140, 36); R.text(c, pfeil[k] + " " + namen[k], bx + 70, R.H - 25, 14, aus ? "rgba(241,231,210,0.6)" : "#141B25"); });
           if (wahl && rd.lehre) R.tafel(c, CX - 300, 110, 600, 34, [[rd.lehre, 14, "#141B25"]]);
-          if (wahl) { const u = rd.dauer > 1e8 ? 1 : 1 - rd.t / rd.dauer; c.fillStyle = "rgba(20,27,37,0.8)"; c.fillRect(CX - 214, R.H - 56, 428, 8); c.fillStyle = u > 0.35 ? "#3F8F5A" : "#C23B2A"; c.fillRect(CX - 212, R.H - 54, 424 * Math.max(0, u), 4); R.text(c, rd.wahl ? "GEWÄHLT: " + namen[arts.indexOf(rd.wahl)].toUpperCase() + (rd.wahl === "schub" && !a.griff && stufe >= 2 ? " (HALTEN LÄDT AUF)" : "") : "WÄHLE DEINEN ZUG", CX, R.H - 66, 11, "#F1E7D2"); }
+          if (wahl) { const u = rd.dauer > 1e8 ? 1 : 1 - rd.t / rd.dauer; c.fillStyle = "rgba(20,27,37,0.8)"; c.fillRect(CX - 214, R.H - 56, 428, 8); c.fillStyle = u > 0.35 ? "#3F8F5A" : "#C23B2A"; c.fillRect(CX - 212, R.H - 54, 424 * Math.max(0, u), 4); R.text(c, rd.wahl ? "GEWÄHLT: " + namen[arts.indexOf(rd.wahl)].toUpperCase() + (rd.wahl === "schub" && !a.griff && stufe >= 2 ? " (HALTEN LÄDT AUF)" : "") : "WÄHLE DEINEN ZUG", CX, R.H - 66, 12, "#141B25"); }
           else if (rd.ph === "warum" && rd.text) { const n = (z, griff) => (z ? (z === "schub" && griff ? "Drängen" : NAMEN[z]) : "nichts"); R.tafel(c, CX - 330, 104, 660, 56, [[`DU: ${n(rd.zug[0], false).toUpperCase()}   ·   ${gegner.name.toUpperCase()}: ${n(rd.zug[1], false).toUpperCase()}`, 12, "#8A8F9C"], [rd.text.t, 13, rd.text.gut > 0 ? "#2F7A4A" : rd.text.gut < 0 ? "#C23B2A" : "#141B25"]]); }
           else if (rd.ph === "zug" && rd.zug && rd.t < 1.3) { const n = (z, griff) => (z ? (z === "schub" && griff ? "Drängen" : NAMEN[z]) : "nichts"); R.tafel(c, CX - 190, 134, 380, 28, [[`DU: ${n(rd.zug[0], a.griff).toUpperCase()}   ·   ${gegner.name.toUpperCase()}: ${n(rd.zug[1], b.griff).toUpperCase()}`, 13, "#141B25"]]); } }
         if (stufe >= 2 && st.ph === "kampf" && st.rd.ph === "zug" && !st.rd.getippt) { const ea = a.akt, eb = b.akt; let rest = null, eigen = false;
@@ -3013,7 +3023,7 @@ tr.cut td { border-bottom: 2px dashed var(--red); }
   const dSt = { faecher: { w: -0.5, seite: 1 }, jubel: 0 };
   R = window.CMRahmen.spiel({
     id: "sumo", name: "Yeti-Sumo", titel: ["Yeti", "Sumo"], band: "Nozawa · Japan", version: VERSION,
-    satz: "Zwei Yetis, ein Ring aus Stroh: Wer hinausgedrängt wird oder fällt, hat verloren.",
+    satz: "Zwei Yetis, ein Ring aus Eis und Stroh: Wer hinausgedrängt wird oder fällt, hat verloren.",
     modi: [{ id: "turnier", name: "Turnier", sub: (R) => (R.S.best && R.S.best.siege != null ? `Bestes Turnier: ${R.S.best.siege} Siege` : "Sieben Kämpfe. Der erste erklärt das Spiel"), start: turnier },
       { id: "schule", name: "Sumo-Schule", sub: () => "Drei Lektionen ohne Zeitdruck, dann ein Kampf", ohneName: true, start: schule },
       { id: "einzel", name: "Einzelkampf", sub: () => "Ein Kampf gegen einen der leichteren Yetis", ohneName: true, start: einzel }],
@@ -3029,7 +3039,7 @@ tr.cut td { border-bottom: 2px dashed var(--red); }
       ["Stoß aufladen", "(Im Turnier ab dem dritten Gegner.) Hältst du „Schieben“ beim Gong noch gedrückt, lädt dein Yeti den Stoß auf, bis du loslässt. Ein geladener Stoß schiebt viel weiter und sprengt auch einen festen Griff. Weicht der Gegner aber aus, stürzt du mit voller Wucht ins Leere."],
       ["Am Gürtel", "Wer den Griff hat, kann nicht mehr ausmanövriert werden, und der Griff wird mit der Zeit fester (goldener Balken). Dann gilt: nach vorn drängen, hoch ausheben und zum Rand tragen (nur mit festem Griff), zurück werfen. Der Wurf gelingt, wenn der Gegner wackelt, am Rand steht oder gerade selbst angreift. Wer beim Ausheben in einen Stoß gerät, wird niedergedrückt."],
       ["Noch nicht drin", "Eigene Yetis zur Wahl, Rangliste über mehrere Turniere, Kampf zu zweit per Link, mehr Siegtechniken."]],
-    plakat(c, t) { if (!R) return; arena(c, t, dSt); gyoji(c, t, dSt); for (const [x, art, dir, ph] of [[-0.62, ICH, 1, 0], [0.62, YETIS[2], -1, 2]]) { c.fillStyle = "rgba(60,40,24,0.28)"; c.beginPath(); c.ellipse(CX + x * PXM, CY + 4, 62, 13, 0, 0, R.TAU); c.fill(); yeti(c, CX + x * PXM, CY, { pose: misch(PO.kampf, PO.schubVor, 0.3 + 0.3 * Math.sin(t * 2.4 + ph)), dir, art }); } },
+    plakat(c, t) { if (!R) return; arena(c, t, dSt); gyoji(c, t, dSt); for (const [x, art, dir, ph] of [[-0.62, ICH, 1, 0], [0.62, YETIS[2], -1, 2]]) { c.fillStyle = "rgba(40,80,120,0.3)"; c.beginPath(); c.ellipse(CX + x * PXM, CY + 4, 70, 14, 0, 0, R.TAU); c.fill(); yeti(c, CX + x * PXM, CY, { pose: misch(PO.kampf, PO.schubVor, 0.3 + 0.3 * Math.sin(t * 2.4 + ph)), dir, art }); } },
   });
 })();
 </script>

diff --git a/eisstock/index.html b/eisstock/index.html
@@ -2414,15 +2414,15 @@ tr.cut td { border-bottom: 2px dashed var(--red); }
         // Leib: Bauch und Brust aus zwei Ballen, Rückenfell, Gürtel mit Knoten und Fransen
         const mid = (t) => lerp(sk.hip, sk.nk, t);
         E(at(mid(0.36), fr, 2.6, up, 0, zs, 0), fr, up, zs, 12.4 * k, 13.2, 12.8 * k, fur);
-        E(at(mid(0.8), fr, 0.8, up, 0, zs, 0), fr, up, zs, 10.4 * k, 10.2, 12.2 * k, fur);
-        E(at(mid(0.62), fr, -7.5 * k, up, 0, zs, 0), fr, up, zs, 5.2, 8.5, 9.5 * k, fur2);
+        E(at(mid(0.8), fr, 1.2, up, 0, zs, 0), fr, up, zs, 11.8 * k, 10.8, 14.6 * k, fur);
+        E(at(mid(0.66), fr, -8.2 * k, up, 0, zs, 0), fr, up, zs, 6.4, 9.6, 11.5 * k, fur2);
         E(at(mid(0.1), fr, 1.8, up, 0, zs, 0), fr, up, zs, 12.9 * k, 3.3, 13.3 * k, belt);
         ball(at(mid(0.1), fr, 13.6 * k, up, 0, zs, 0), 2.5, belt);
         for (const sd of [-2, -1, 0, 1, 2]) cap(at(mid(0.07), fr, 13.2 * k, up, 0, zs, sd * 2.2), at(mid(0.07), fr, 13.6 * k, up, -7.5, zs, sd * 2.4), 0.75, belt);
         // Arme: runde Schulter, dicke Arme, Pranken
         for (const A2 of [sk.AF, sk.AB]) {
-          ball(A2[0], 6.6 * k, fur); limb(A2[0], A2[1], 5.8 * k, 5.0 * k, fur); limb(A2[1], A2[2], 5.0 * k, 4.5 * k, fur);
-          const d = norm(sub(A2[2], A2[1])); ball([A2[2][0] + d[0] * 2.6, A2[2][1] + d[1] * 2.6, A2[2][2] + d[2] * 2.6], 4.9, fur2);
+          ball(A2[0], 8.4 * k, fur); limb(A2[0], A2[1], 7.0 * k, 5.9 * k, fur); limb(A2[1], A2[2], 5.9 * k, 5.2 * k, fur);
+          const d = norm(sub(A2[2], A2[1])); ball([A2[2][0] + d[0] * 2.6, A2[2][1] + d[1] * 2.6, A2[2][2] + d[2] * 2.6], 6.0, fur2);
         }
         // Kopf: groß, Gesicht als hellblaue Maske, Augen, Nase, Maul mit zwei Zähnen, Hörner, Schopf
         const hu = norm(sub(sk.head, sk.nk)), hf = norm(cross(hu, zs)), hc = at(sk.head, hf, 0.5, hu, 1.4, zs, 0);
@@ -2430,9 +2430,9 @@ tr.cut td { border-bottom: 2px dashed var(--red); }
         E(at(hc, hf, 4.9, hu, -0.8, zs, 0), hf, hu, zs, 4.6, 5.6, 6.4, face);
         for (const sd of [-1, 1]) {
           E(at(hc, hf, 8.9, hu, 1.0, zs, sd * 2.7), hf, hu, zs, 0.9, o.auge === "zu" ? 0.35 : 1.15, 1.15, dark, true);
-          E(at(hc, hf, 8.6, hu, o.auge === "zu" ? 2.6 : 3.1, zs, sd * 2.9), hf, hu, zs, 1.0, 0.75, 2.3, fur, true);
-          limb(at(hc, hf, 0, hu, 6.2, zs, sd * 4.6), at(hc, hf, 1.6, hu, 12.2, zs, sd * 7.4), 1.8, 0.5, horn);
-          E(at(hc, hf, 8.6, hu, -4.4, zs, sd * 1.5), hf, hu, zs, 0.6, 1.0, 0.6, hex("#FFFFFF"), true);
+          E(at(hc, hf, 8.9, hu, o.auge === "zu" ? 2.5 : 2.7 - (sd * 0), zs, sd * 2.9), hf, hu, zs, 1.3, 1.0, 2.9, fur, true);
+          limb(at(hc, hf, 0, hu, 5.6, zs, sd * 5.0), at(hc, hf, 1.2, hu, 10.6, zs, sd * 9.2), 2.5, 1.5, horn); limb(at(hc, hf, 1.2, hu, 10.6, zs, sd * 9.2), at(hc, hf, 4.2, hu, 15.2, zs, sd * 8.2), 1.5, 0.3, horn);
+          E(at(hc, hf, 8.8, hu, -4.7, zs, sd * 1.7), hf, hu, zs, 0.7, 1.6, 0.75, hex("#FFFFFF"), true);
         }
         E(at(hc, hf, 9.6, hu, -1.0, zs, 0), hf, hu, zs, 1.2, 1.0, 1.5, dark, true);
         E(at(hc, hf, 8.7, hu, -3.6, zs, 0), hf, hu, zs, 0.8, o.mund === "auf" ? 1.9 : 0.55, 2.7, dark, true);

diff --git a/halfpipe/index.html b/halfpipe/index.html
@@ -2414,15 +2414,15 @@ tr.cut td { border-bottom: 2px dashed var(--red); }
         // Leib: Bauch und Brust aus zwei Ballen, Rückenfell, Gürtel mit Knoten und Fransen
         const mid = (t) => lerp(sk.hip, sk.nk, t);
         E(at(mid(0.36), fr, 2.6, up, 0, zs, 0), fr, up, zs, 12.4 * k, 13.2, 12.8 * k, fur);
-        E(at(mid(0.8), fr, 0.8, up, 0, zs, 0), fr, up, zs, 10.4 * k, 10.2, 12.2 * k, fur);
-        E(at(mid(0.62), fr, -7.5 * k, up, 0, zs, 0), fr, up, zs, 5.2, 8.5, 9.5 * k, fur2);
+        E(at(mid(0.8), fr, 1.2, up, 0, zs, 0), fr, up, zs, 11.8 * k, 10.8, 14.6 * k, fur);
+        E(at(mid(0.66), fr, -8.2 * k, up, 0, zs, 0), fr, up, zs, 6.4, 9.6, 11.5 * k, fur2);
         E(at(mid(0.1), fr, 1.8, up, 0, zs, 0), fr, up, zs, 12.9 * k, 3.3, 13.3 * k, belt);
         ball(at(mid(0.1), fr, 13.6 * k, up, 0, zs, 0), 2.5, belt);
         for (const sd of [-2, -1, 0, 1, 2]) cap(at(mid(0.07), fr, 13.2 * k, up, 0, zs, sd * 2.2), at(mid(0.07), fr, 13.6 * k, up, -7.5, zs, sd * 2.4), 0.75, belt);
         // Arme: runde Schulter, dicke Arme, Pranken
         for (const A2 of [sk.AF, sk.AB]) {
-          ball(A2[0], 6.6 * k, fur); limb(A2[0], A2[1], 5.8 * k, 5.0 * k, fur); limb(A2[1], A2[2], 5.0 * k, 4.5 * k, fur);
-          const d = norm(sub(A2[2], A2[1])); ball([A2[2][0] + d[0] * 2.6, A2[2][1] + d[1] * 2.6, A2[2][2] + d[2] * 2.6], 4.9, fur2);
+          ball(A2[0], 8.4 * k, fur); limb(A2[0], A2[1], 7.0 * k, 5.9 * k, fur); limb(A2[1], A2[2], 5.9 * k, 5.2 * k, fur);
+          const d = norm(sub(A2[2], A2[1])); ball([A2[2][0] + d[0] * 2.6, A2[2][1] + d[1] * 2.6, A2[2][2] + d[2] * 2.6], 6.0, fur2);
         }
         // Kopf: groß, Gesicht als hellblaue Maske, Augen, Nase, Maul mit zwei Zähnen, Hörner, Schopf
         const hu = norm(sub(sk.head, sk.nk)), hf = norm(cross(hu, zs)), hc = at(sk.head, hf, 0.5, hu, 1.4, zs, 0);
@@ -2430,9 +2430,9 @@ tr.cut td { border-bottom: 2px dashed var(--red); }
         E(at(hc, hf, 4.9, hu, -0.8, zs, 0), hf, hu, zs, 4.6, 5.6, 6.4, face);
         for (const sd of [-1, 1]) {
           E(at(hc, hf, 8.9, hu, 1.0, zs, sd * 2.7), hf, hu, zs, 0.9, o.auge === "zu" ? 0.35 : 1.15, 1.15, dark, true);
-          E(at(hc, hf, 8.6, hu, o.auge === "zu" ? 2.6 : 3.1, zs, sd * 2.9), hf, hu, zs, 1.0, 0.75, 2.3, fur, true);
-          limb(at(hc, hf, 0, hu, 6.2, zs, sd * 4.6), at(hc, hf, 1.6, hu, 12.2, zs, sd * 7.4), 1.8, 0.5, horn);
-          E(at(hc, hf, 8.6, hu, -4.4, zs, sd * 1.5), hf, hu, zs, 0.6, 1.0, 0.6, hex("#FFFFFF"), true);
+          E(at(hc, hf, 8.9, hu, o.auge === "zu" ? 2.5 : 2.7 - (sd * 0), zs, sd * 2.9), hf, hu, zs, 1.3, 1.0, 2.9, fur, true);
+          limb(at(hc, hf, 0, hu, 5.6, zs, sd * 5.0), at(hc, hf, 1.2, hu, 10.6, zs, sd * 9.2), 2.5, 1.5, horn); limb(at(hc, hf, 1.2, hu, 10.6, zs, sd * 9.2), at(hc, hf, 4.2, hu, 15.2, zs, sd * 8.2), 1.5, 0.3, horn);
+          E(at(hc, hf, 8.8, hu, -4.7, zs, sd * 1.7), hf, hu, zs, 0.7, 1.6, 0.75, hex("#FFFFFF"), true);
         }
         E(at(hc, hf, 9.6, hu, -1.0, zs, 0), hf, hu, zs, 1.2, 1.0, 1.5, dark, true);
         E(at(hc, hf, 8.7, hu, -3.6, zs, 0), hf, hu, zs, 0.8, o.mund === "auf" ? 1.9 : 0.55, 2.7, dark, true);

diff --git a/ski-cross/index.html b/ski-cross/index.html
@@ -2127,6 +2127,7 @@ tr.cut td { border-bottom: 2px dashed var(--red); }
     KURVE_AUF: 0.14,        // Einleiten der Kurve: Zuwachs der Krümmung (1/m) je Sekunde
     KURVE_AB: 0.30,         // Auflösen der Kurve
     KURVE_ZEIT: 0,          // > 0: Einleiten dauert so viele Sekunden bis zum vollen Bogen, bei jedem Tempo (Ski Alpin); 0: feste Raten oben
+    KURVEN_MU: 0,           // Reibung im Bogen: Anteil der Querbeschleunigung, der bremst (kurze Schwünge driften an; Riesenslalom und Slalom)
     TOR_STRAFE: 0,          // Sekunden Zuschlag je verpasstem Tor (Kurse mit K.tore)
     GRIP: 1.6,              // Haftgrenze der Kante: Querbeschleunigung bis GRIP · Auflast
     GRIP_FLACH: 0.3,        // Anteil davon auf dem flachen Ski
@@ -2357,7 +2358,7 @@ tr.cut td { border-bottom: 2px dashed var(--red); }
         let ax = gx + aq * A.rx, ay = gy + aq * A.ry, as = gs + aq * A.rs;
         f.vx += ax * dt; f.vy += ay * dt; f.vs += as * dt;
         let v2 = Math.hypot(f.vx, f.vy, f.vs);
-        const brems = (mu * Math.hypot(N, aq) + C.BREMS_MU * f.bremse * N + kd * v2 * v2 + tief * C.TIEF_ZAEH * v2 + (f.fertig ? C.ZIEL_BREMS : 0)) * dt - pump * dt, k = v2 > 1e-6 ? Math.max(0, 1 - brems / v2) : 0;
+        const brems = (mu * Math.hypot(N, aq) + C.KURVEN_MU * (f.drift == null ? 1 : f.drift) * Math.abs(aq + gq) + C.BREMS_MU * f.bremse * N + kd * v2 * v2 + tief * C.TIEF_ZAEH * v2 + (f.fertig ? C.ZIEL_BREMS : 0)) * dt - pump * dt, k = v2 > 1e-6 ? Math.max(0, 1 - brems / v2) : 0;
         f.vx *= k; f.vy *= k; f.vs *= k; v2 *= k;
         f.x += f.vx * dt; f.s += f.vs * dt;
         // auf der Fläche bleiben: die Fläche lenkt um, sie bremst nicht
@@ -2830,6 +2831,10 @@ tr.cut td { border-bottom: 2px dashed var(--red); }
 .sx-kante b { position: absolute; left: 0; top: 0; bottom: 0; width: 0; background: #6EAF64; }
 .sx-kante.warn b { background: #DDA43B; } .sx-kante.rutscht b { background: #C23B2A; }
 .cs-knopf.sx-bremse { bottom: 130px; right: 26px; }
+.cs-knopf.sx-oben-l { bottom: 140px; left: 34px; right: auto; }
+.cs-knopf.sx-oben-r { bottom: 140px; right: 34px; }
+.cs-knopf.sx-schwung { width: 124px; height: 124px; }
+.cs-knopf.sx-schwung .cs-txt { font-size: 15px; }
 .sx-kante u { position: absolute; left: 74%; top: -2px; bottom: -2px; width: 2px; background: #141C28; }`;
   const st = document.createElement("style"); st.textContent = CSS; document.head.appendChild(st);
   const pfeil = (d) => `<svg viewBox="0 0 24 24" fill="none" stroke="currentColor" stroke-width="2.4" stroke-linecap="round" stroke-linejoin="round" aria-hidden="true"><path d="${d}"/></svg>`;
